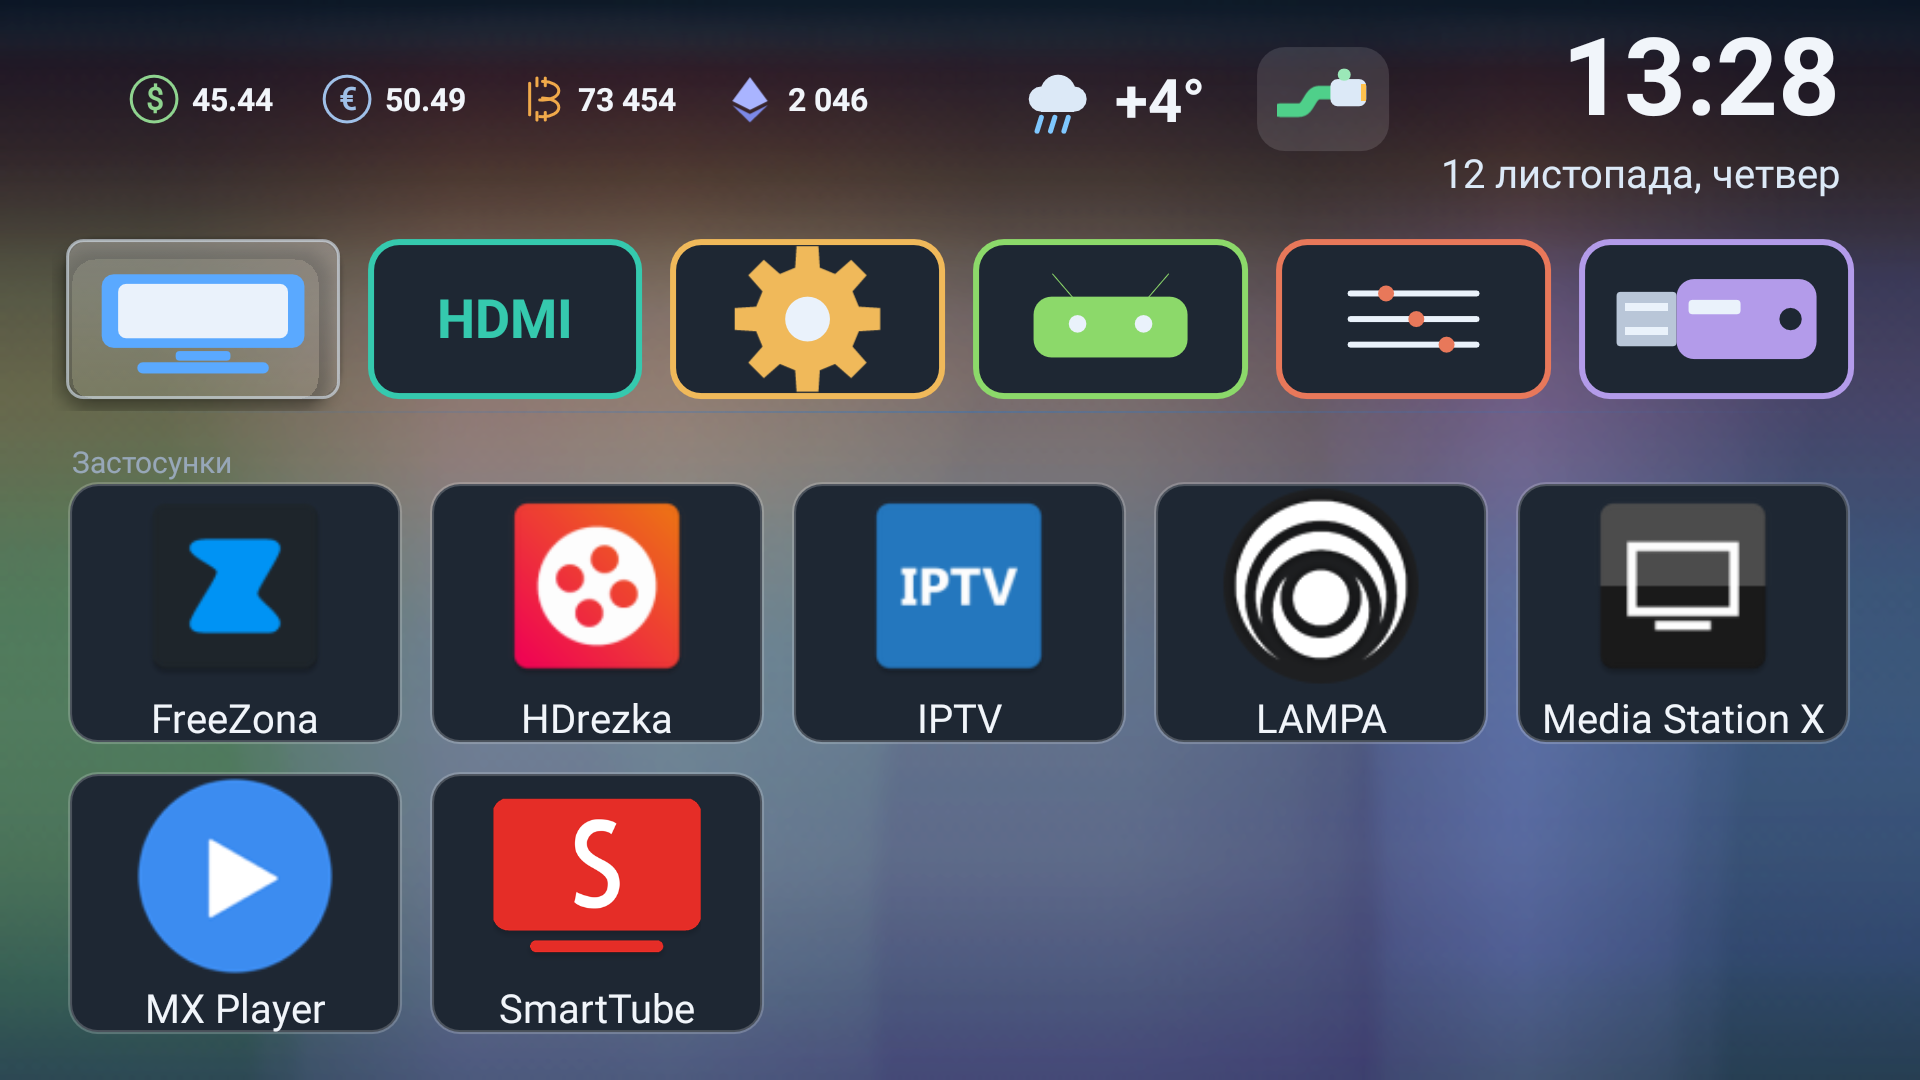
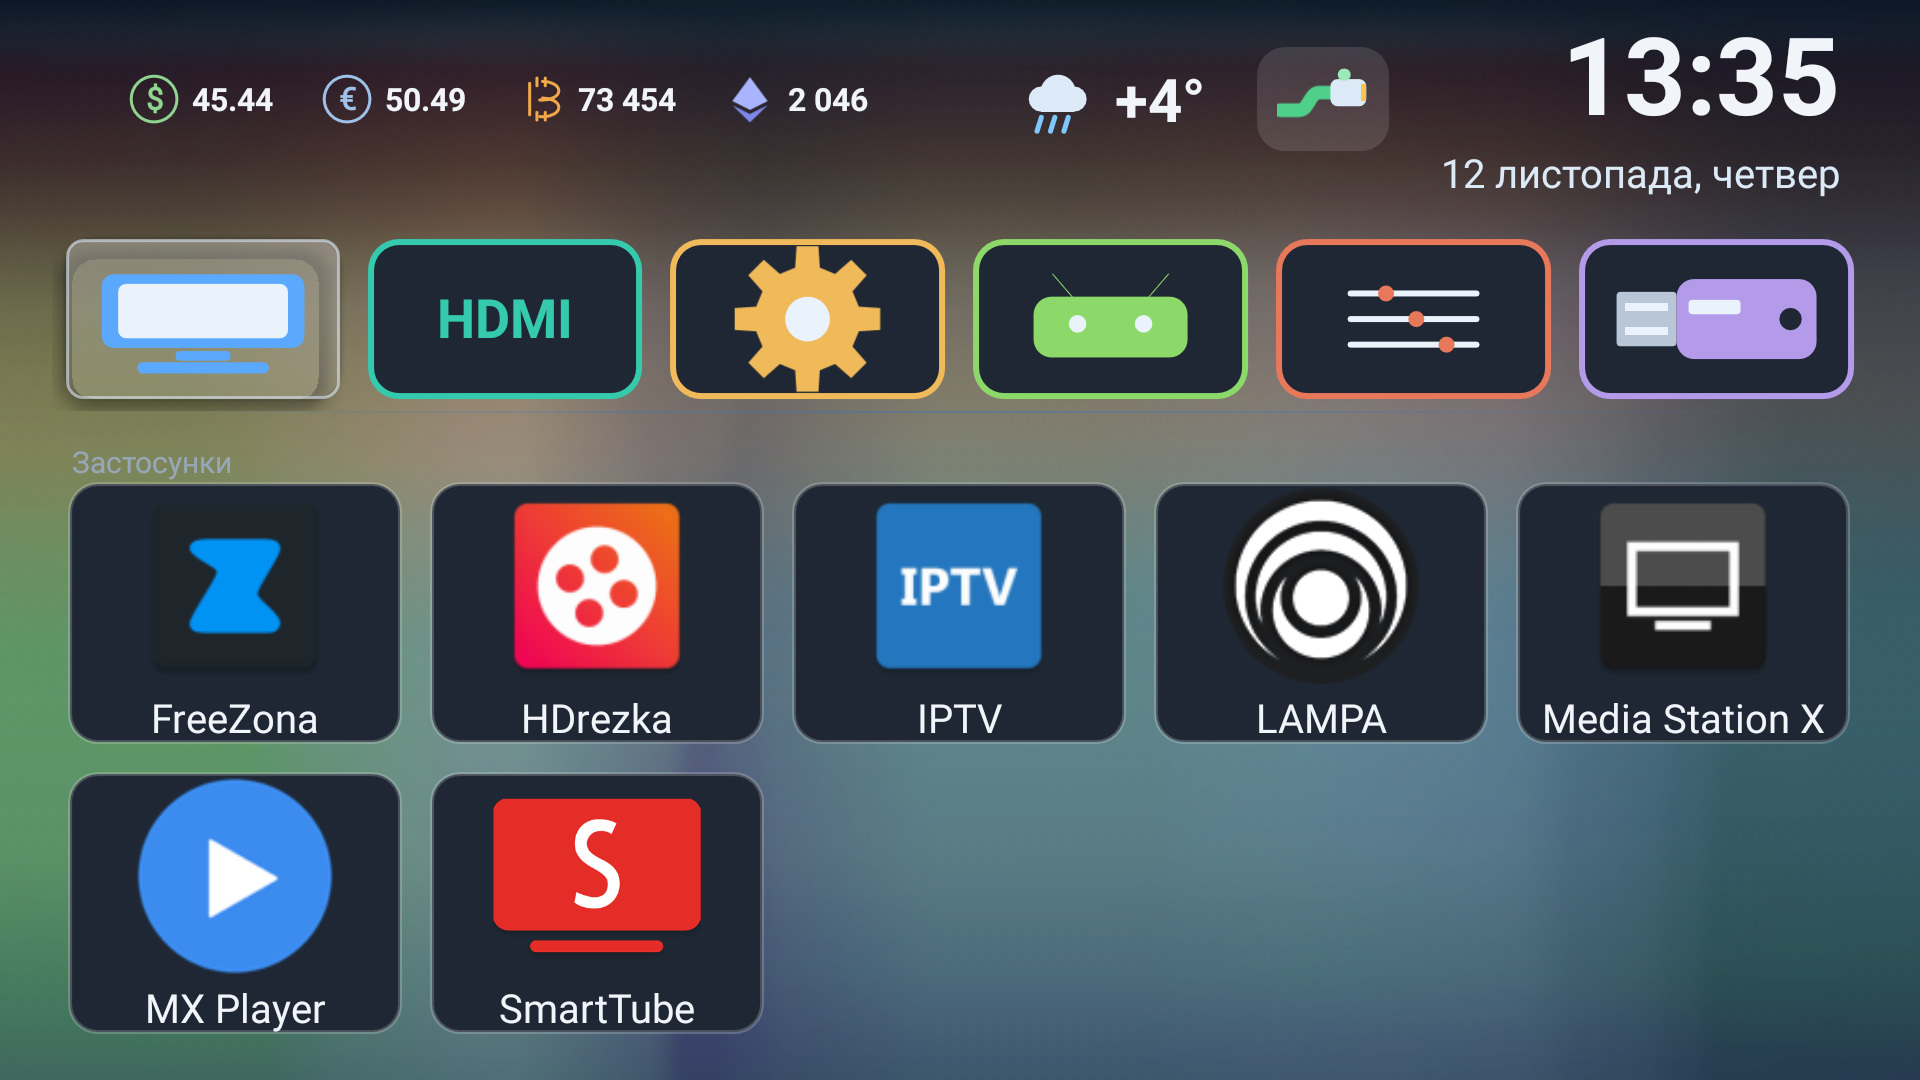
Аврора: шаг перехода 1,1% (90 шагов), верхний конец полос тоже движется

diff --git a/src/com/minihome/tv/MainActivity.java b/src/com/minihome/tv/MainActivity.java
@@ -641,14 +641,14 @@ public class MainActivity extends Activity {
         // Длительность цикла = FRAMES × STEPS кадров экрана. При 60×12 цикл растягивался до
         // 12 секунд, и рисунок за один шаг менялся всё равно заметно. 30 кадров при 12 шагах
         // дают цикл 6 с и шаг всего 8% — движение читается как сплошное.
-        private static final int FRAMES = 30;
+        private static final int FRAMES = 24;
         /** Во сколько раз уменьшаем кадр: узор из плавных градиентов, мельчить не страшно. */
         private static final int SCALE = 8;
         /** Сколько шагов проявляется следующий кадр: больше — мягче переход. */
         // Сколько шагов проявляется следующий кадр. Шаг идёт раз в кадр экрана (16,7 мс),
         // поэтому 12 шагов — мягкое проявление за 0,2 с. При 4 шагах (по 25% за раз) смена
         // кадра читается глазом как рывок, даже если самих кадров много.
-        private static final int STEPS = 50;
+        private static final int STEPS = 90;
 
         private final Paint paint = new Paint(Paint.ANTI_ALIAS_FLAG | Paint.FILTER_BITMAP_FLAG);
         private android.graphics.Bitmap[] frames;
@@ -845,10 +845,17 @@ public class MainActivity extends Activity {
             Path p = new Path();
             // Изгиб задаём опорными точками в верхней половине экрана: там движение видно.
             float lean = hw * (0.22f + 0.30f * swayIn);   // наклон полосы «дыханием»
-            p.moveTo(cx - hw, b.top - dp(4));
-            p.cubicTo(cx - hw * 1.06f - lean, h * 0.20f, cx - hw * 0.70f + lean * 0.4f, h * 0.52f, cx - hw * 0.92f, bot);
+            // Верхний конец полосы тоже гуляет: раньше он жёстко стоял на кромке экрана,
+            // и верх выглядел статичным — менялась только плотность.
+            float topY = b.top - dp(4) + h * (0.03f * pulse + 0.05f * breathe);
+            float topX = hw * 0.30f * breathe;
+            p.moveTo(cx - hw + topX, topY);
+            p.cubicTo(cx - hw * 1.06f - lean, h * 0.22f + h * 0.05f * pulse,
+                      cx - hw * 0.70f + lean * 0.4f, h * 0.54f, cx - hw * 0.92f, bot);
             p.lineTo(cx + hw * 0.92f, bot);
-            p.cubicTo(cx + hw * 0.70f - lean * 0.4f, h * 0.52f, cx + hw * 1.06f + lean, h * 0.20f, cx + hw, b.top - dp(4));
+            p.cubicTo(cx + hw * 0.70f - lean * 0.4f, h * 0.54f,
+                      cx + hw * 1.06f + lean, h * 0.22f + h * 0.05f * pulse,
+                      cx + hw - topX, topY);
             p.close();
 
             // Мягкие края по бокам
